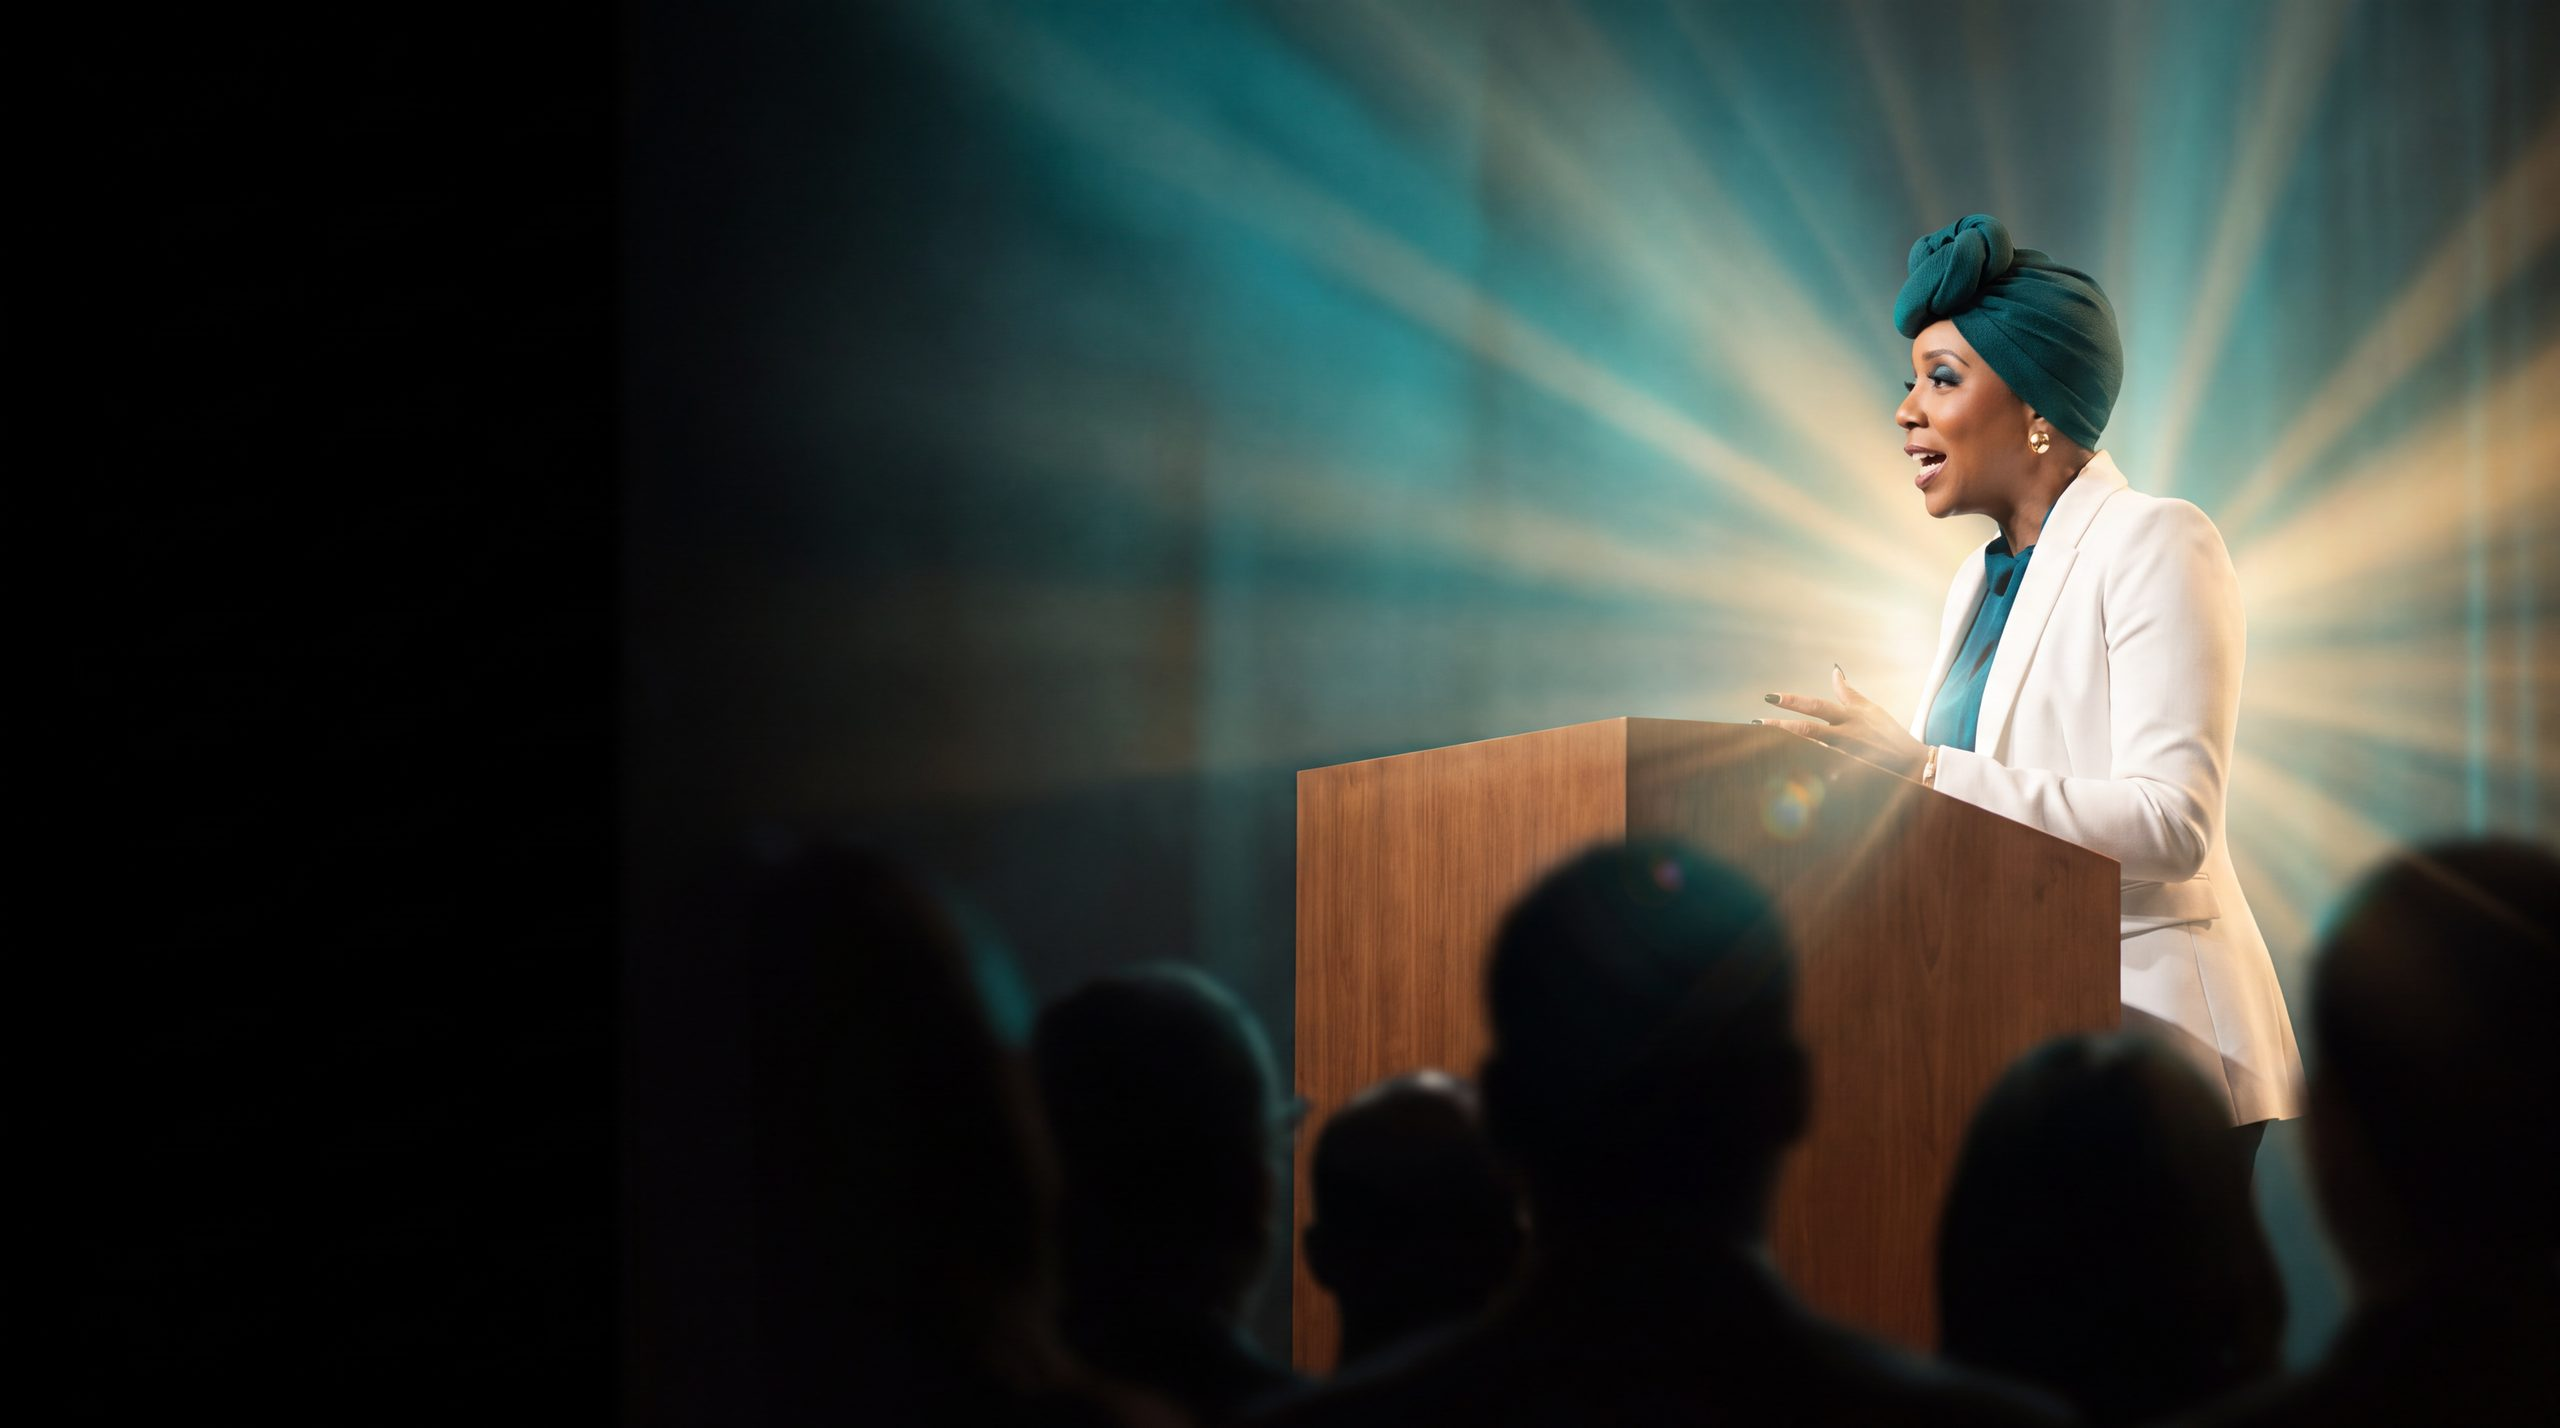
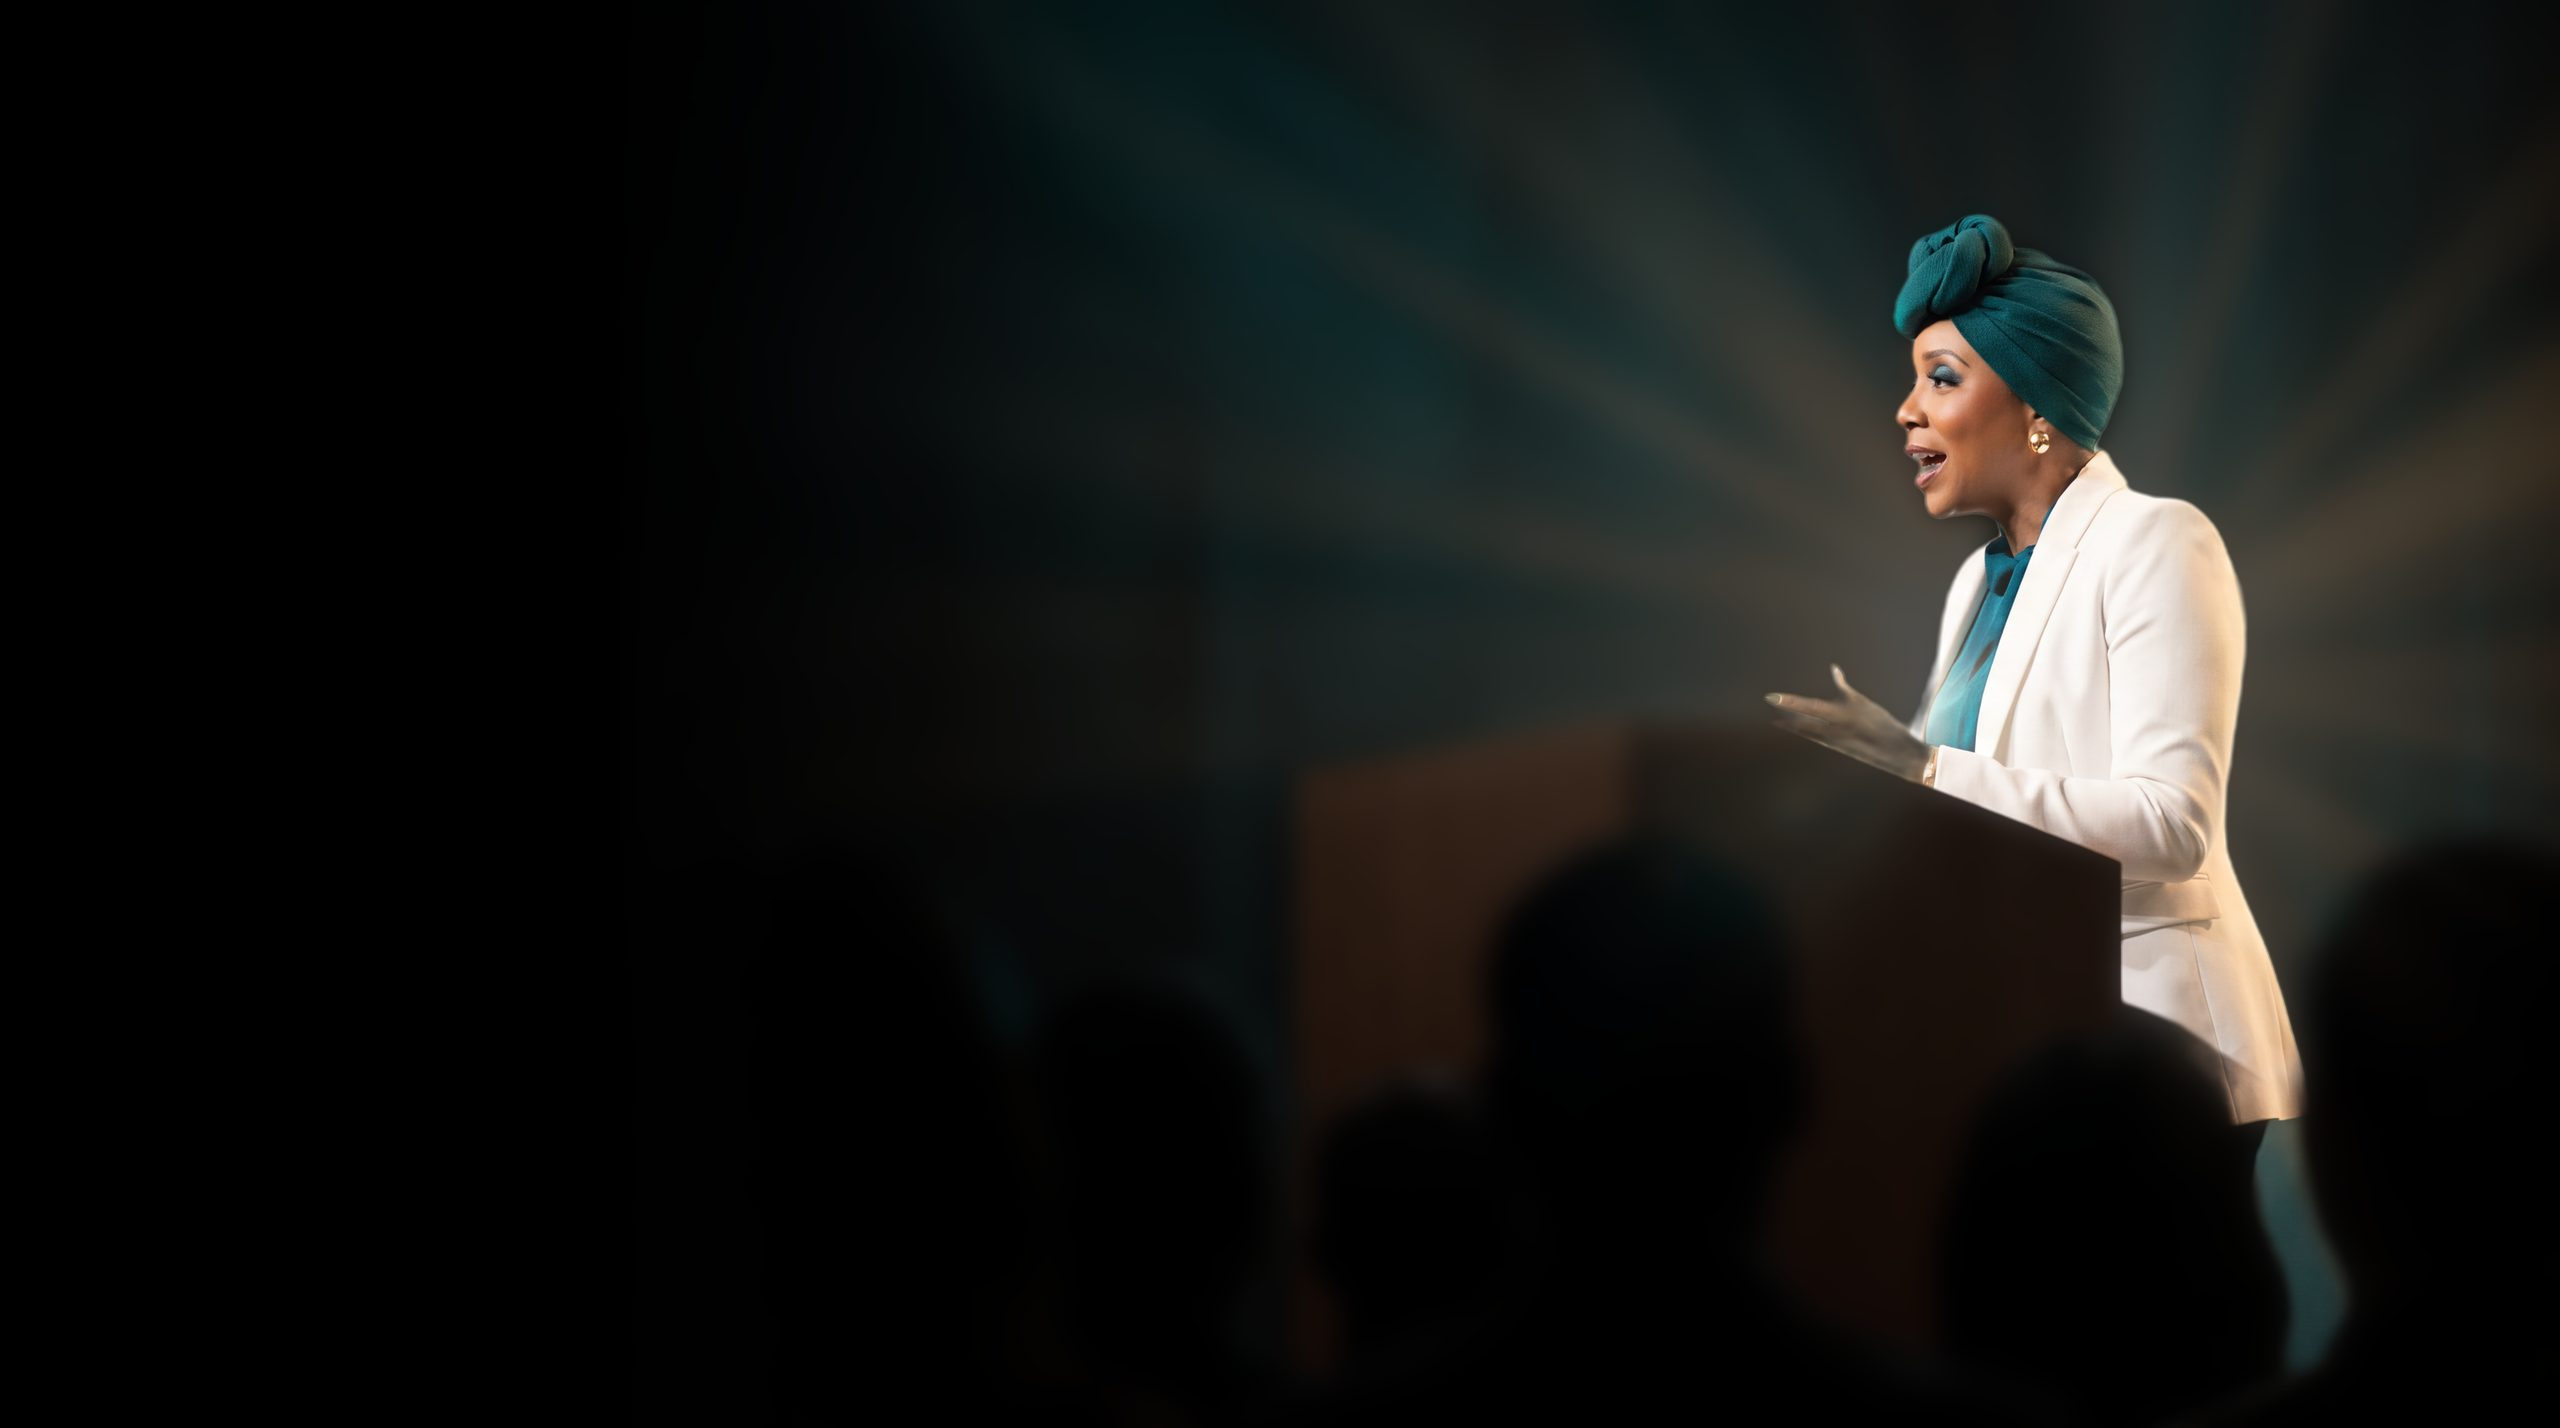
Podium slide: retouched out the light-ray burst, no haze/particles on that slide
Claude-Session: https://claude.ai/code/session_01KcCF9Uu31oW2iM1VvDkZ1R

diff --git a/components/HeroCarousel.tsx b/components/HeroCarousel.tsx
@@ -3,7 +3,7 @@ import Link from "next/link";
 import { useEffect, useState } from "react";
 import { Placeholder } from "./Placeholder";
 
-export type Slide = { eyebrow: string; title: string; body: string; cta: string; href: string; image: string; pos?: string; kb?: "in" | "pan" | "out" };
+export type Slide = { eyebrow: string; title: string; body: string; cta: string; href: string; image: string; pos?: string; kb?: "in" | "pan" | "out"; fx?: boolean };
 
 // Rotating hero modeled on the HighPoint banner: headline left, person right, outlined button, dots.
 // Auto-advances every 7s; pauses on hover/focus and for reduced-motion visitors. Slides are real
@@ -33,8 +33,8 @@ export function HeroCarousel({ slides }: { slides: Slide[] }) {
           <div className="absolute inset-0 -z-20 bg-gradient-to-br from-gov via-navy to-teal" />
           {/* eslint-disable-next-line @next/next/no-img-element */}
           <img src={s.image} alt="" loading={n === 0 ? "eager" : "lazy"} data-kb={s.kb ?? "in"} data-active={n === i} style={{ objectPosition: s.pos ?? "right top" }} className="hero-kb absolute inset-0 -z-10 h-full w-full object-cover" />
-          <div className="hero-haze" aria-hidden />
-          <div className="hero-motes" aria-hidden>{Array.from({ length: 14 }).map((_, k) => <span key={k} style={{ left: `${(k * 37) % 100}%`, animationDelay: `${-(k * 1.7) % 14}s`, animationDuration: `${12 + (k % 5) * 3}s`, width: 2 + (k % 3), height: 2 + (k % 3) }} />)}</div>
+          {s.fx !== false && <div className="hero-haze" aria-hidden />}
+          {s.fx !== false && <div className="hero-motes" aria-hidden>{Array.from({ length: 14 }).map((_, k) => <span key={k} style={{ left: `${(k * 37) % 100}%`, animationDelay: `${-(k * 1.7) % 14}s`, animationDuration: `${12 + (k % 5) * 3}s`, width: 2 + (k % 3), height: 2 + (k % 3) }} />)}</div>}
           <div className="absolute inset-0 bg-gradient-to-r from-gov/85 via-gov/45 to-gov/10 md:from-gov/80 md:via-gov/15" aria-hidden />
           <div className="relative mx-auto flex h-full max-w-6xl flex-col justify-center px-6 pb-24 pt-48">
             <p className="text-sm font-semibold uppercase tracking-[0.2em] text-brass">{s.eyebrow}</p>

diff --git a/app/page.tsx b/app/page.tsx
@@ -12,7 +12,7 @@ const paths = [
 const slides: Slide[] = [
   { eyebrow: "Who we are", title: "A U.S. Army veteran turning lived experience into leadership.", body: "Global thought leader in governance and humanity. Speaker, author and founder of Interactive Advocacy.", cta: "Meet Dr. Jones", href: "/about", image: "/images/hero-closeup.jpg", pos: "70% center", kb: "in" },
   { eyebrow: "What we do", title: "Turning conversation into policy, and policy into safer communities.", body: "Policy & Leadership Forums, keynotes and A.C.T\u00a9 violence-prevention training.", cta: "Host a Forum", href: "/forums#inquire", image: "/images/hero-wide.jpg", pos: "center", kb: "in" },
-  { eyebrow: "Who we serve", title: "For the people and institutions committed to lasting change.", body: "Governments and intergovernmental bodies, military and veteran communities, schools, workplaces and public institutions.", cta: "Find your path", href: "#paths", image: "/images/hero-podium.jpg", pos: "center", kb: "pan" },
+  { eyebrow: "Who we serve", title: "For the people and institutions committed to lasting change.", body: "Governments and intergovernmental bodies, military and veteran communities, schools, workplaces and public institutions.", cta: "Find your path", href: "#paths", image: "/images/hero-podium.jpg", pos: "center", kb: "pan", fx: false },
 ];
 
 export default function Home() {
